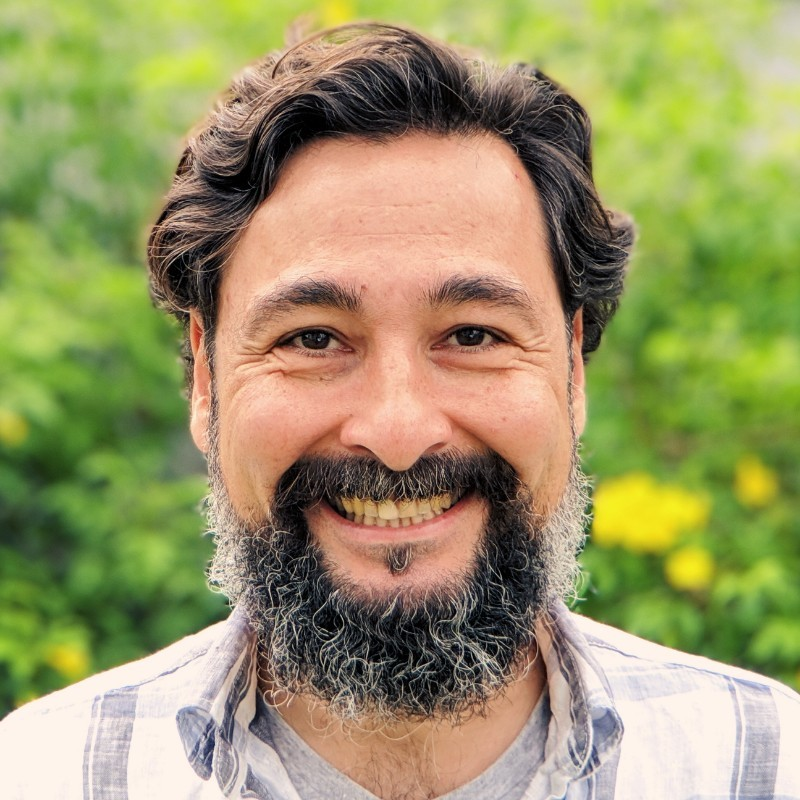
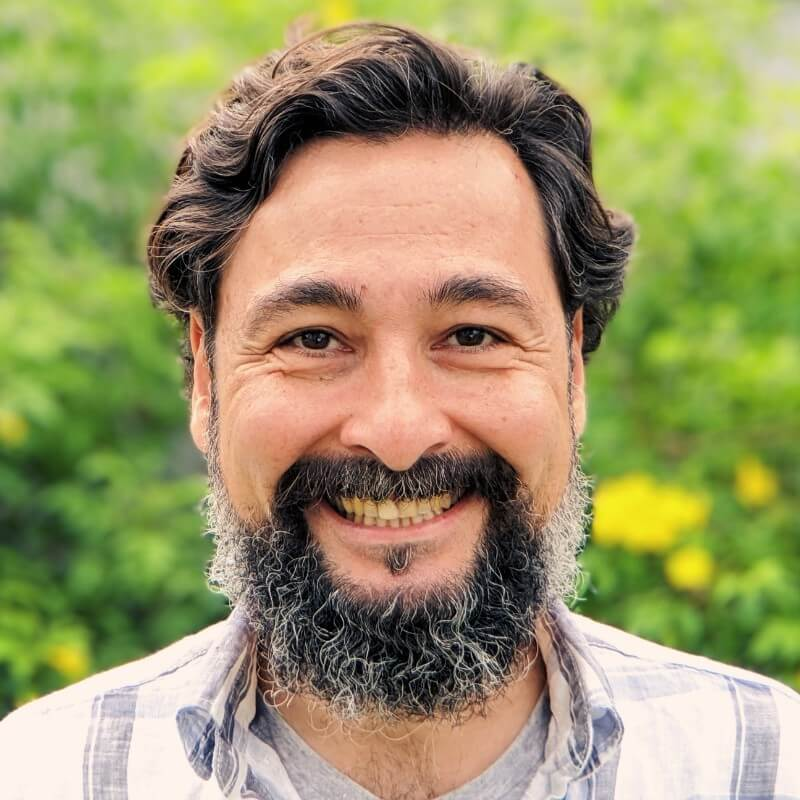
add improvements in Testimonials.tsx and compress images

Changed region(s): [[0.5938, 0.8125, 0.625, 0.8438]]

diff --git a/website/pages-parts/LandingPage/Testimonials.tsx b/website/pages-parts/LandingPage/Testimonials.tsx
@@ -139,21 +139,27 @@ export type TestimonialProps = {
   description: JSX.Element;
   linkGithub: string;
   linkLinkedin: string;
-  mirror?: boolean;
   position: string;
   who: string;
 };
 
 export function Testimonial({
-  avatar,
-  company,
-  description,
-  linkGithub,
-  linkLinkedin,
+  testimonial,
   mirror,
-  position,
-  who,
-}: TestimonialProps) {
+}: {
+  testimonial: TestimonialProps;
+  mirror: boolean;
+}) {
+  const {
+    avatar,
+    company,
+    description,
+    linkGithub,
+    linkLinkedin,
+    position,
+    who,
+  } = testimonial;
+
   return (
     <div
       className={classNames(
@@ -244,15 +250,13 @@ export function Testimonials() {
               transform: `translate(-${slide * 50}%)`,
             }}
           >
-            {testimonials.map((testimonial, testimonialIdx) => {
-              return (
-                <Testimonial
-                  key={testimonialIdx}
-                  {...testimonial}
-                  mirror={testimonialIdx !== slide}
-                />
-              );
-            })}
+            {testimonials.map((testimonial, testimonialIdx) => (
+              <Testimonial
+                key={testimonialIdx}
+                testimonial={testimonial}
+                mirror={testimonialIdx !== slide}
+              />
+            ))}
           </div>
         </div>
 
